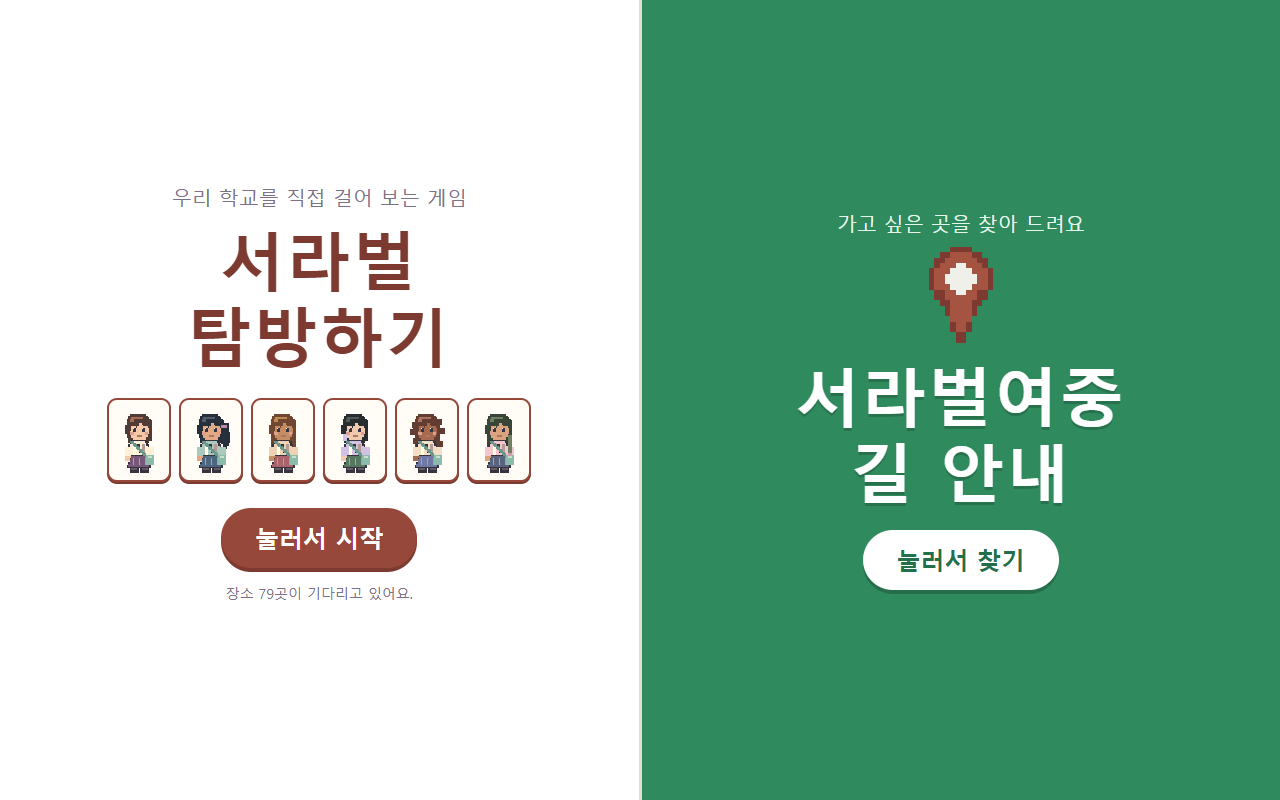
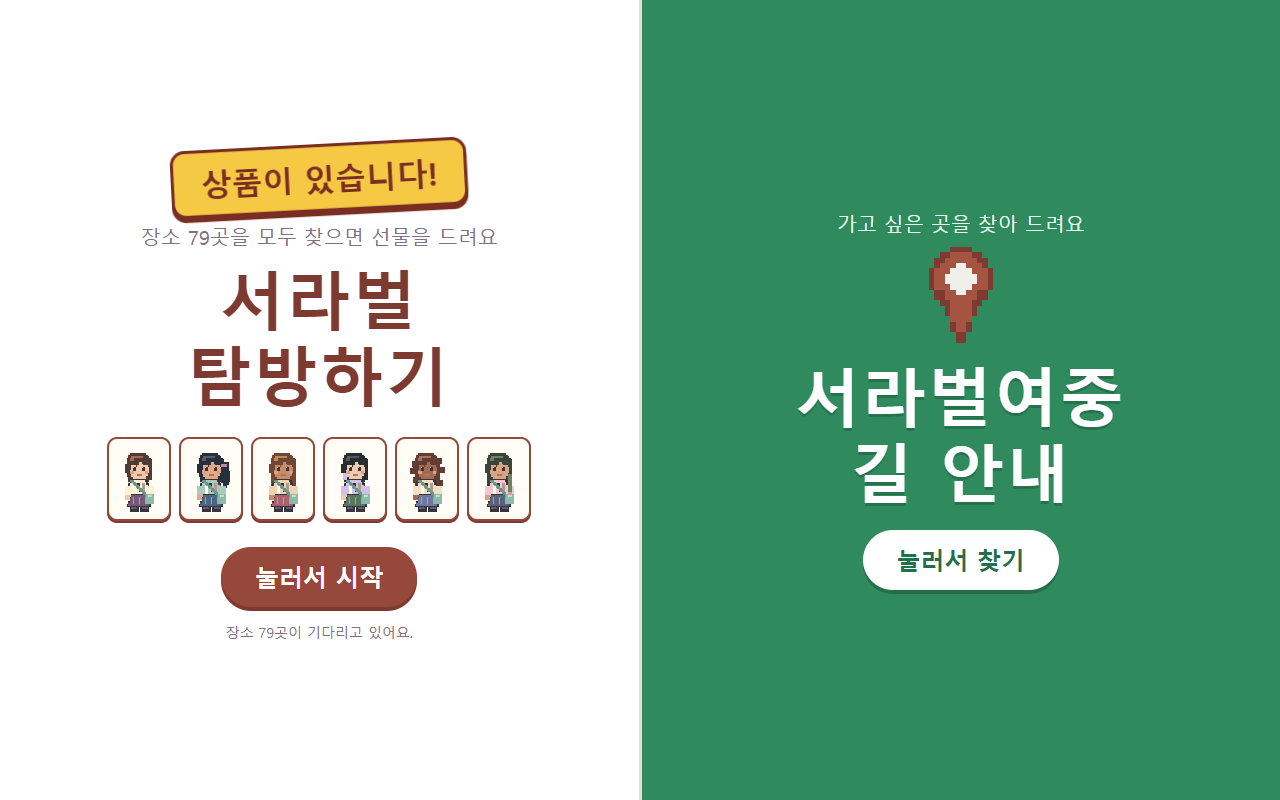
서라벌 탐방: 79곳 완료 시 학번·이름을 GitHub 비공개 저장소에 기록하고 2층 교무실 안내, 처음 화면에 상품 안내, 선생님 설정(?setup)

Changed region(s): [[0.0938, 0.1562, 0.4062, 0.8125]]

diff --git a/components/explore/js/prize.js b/components/explore/js/prize.js
@@ -1,0 +1,164 @@
+/* 서라벌 탐방 — 79곳 완료 상품: 학번·이름 받기 → GitHub 저장소에 기록 → "2층 교무실 선생님에게 찾아가세요".
+   GitHub 열쇠(토큰)는 공개 코드에 넣지 않습니다(공개 저장소에 올리면 GitHub가 바로 폐기함).
+   선생님이 사이니지 기기에서 ?setup 주소로 한 번 입력하면 그 기기 localStorage에만 저장됩니다.
+   보내기에 실패해도 기록은 기기에 남고, 다음에 자동으로 다시 보냅니다. */
+(function () {
+  'use strict';
+  var U = SRB.U;
+  var CFG = 'srb.explore.github', LOG = 'srb.explore.winners';
+  var P = {};
+
+  function get(k, d) { try { var v = JSON.parse(localStorage.getItem(k) || 'null'); return v == null ? d : v; } catch (e) { return d; } }
+  function put(k, v) { try { localStorage.setItem(k, JSON.stringify(v)); return true; } catch (e) { return false; } }
+  function pad(n, w) { n = String(n); while (n.length < (w || 2)) n = '0' + n; return n; }
+  function stamp(d) {
+    return d.getFullYear() + '-' + pad(d.getMonth() + 1) + '-' + pad(d.getDate()) + ' ' + pad(d.getHours()) + ':' + pad(d.getMinutes()) + ':' + pad(d.getSeconds());
+  }
+  function hash(s) { var h = 5381; for (var i = 0; i < s.length; i++) h = ((h * 33) ^ s.charCodeAt(i)) >>> 0; return 'h' + h.toString(36); }
+  function b64(str) { return btoa(unescape(encodeURIComponent(str))); }
+
+  P.config = function () { return get(CFG, { repo: '', token: '', branch: '', pin: '' }); };
+  P.ready = function () { var c = P.config(); return !!(c.repo && c.token); };
+  P.log = function () { return get(LOG, []); };
+
+  /* GitHub Contents API: one file per record, so nothing ever needs merging. XHR works on every browser. */
+  function request(method, url, token, body) {
+    return new Promise(function (ok, fail) {
+      var x = new XMLHttpRequest();
+      x.open(method, url);
+      x.setRequestHeader('Accept', 'application/vnd.github+json');
+      x.setRequestHeader('Authorization', 'Bearer ' + token);
+      if (body) x.setRequestHeader('Content-Type', 'application/json');
+      x.timeout = 15000;
+      x.onload = function () { if (x.status >= 200 && x.status < 300) ok(x.status); else fail(new Error('GitHub ' + x.status)); };
+      x.onerror = function () { fail(new Error('연결 안 됨')); };
+      x.ontimeout = function () { fail(new Error('시간 초과')); };
+      x.send(body ? JSON.stringify(body) : null);
+    });
+  }
+  function send(entry) {
+    var c = P.config();
+    if (!c.repo || !c.token) return Promise.reject(new Error('저장소 설정 없음'));
+    var r = entry.record, path = 'records/' + entry.day + '/' + entry.file;
+    var body = { message: '서라벌 탐방 완료 ' + r['학번'] + ' ' + r['이름'], content: b64(JSON.stringify(r, null, 2) + '\n') };
+    if (c.branch) body.branch = c.branch;
+    return request('PUT', 'https://api.github.com/repos/' + c.repo + '/contents/' + path.split('/').map(encodeURIComponent).join('/'), c.token, body);
+  }
+  function mark(id, sent, err) {
+    var log = P.log();
+    for (var i = 0; i < log.length; i++) if (log[i].id === id) { log[i].sent = sent; log[i].error = err || ''; }
+    put(LOG, log);
+  }
+  /* save locally first, then try GitHub; resolves {sent, error} (never rejects) */
+  P.submit = function (num, name, places) {
+    var d = new Date();
+    var record = { '학번': num, '이름': name, '완료 시각': stamp(d), '장소 수': places, '게임': '서라벌 탐방' };
+    var entry = {
+      id: d.getTime() + '-' + num, record: record, sent: false, error: '',
+      day: stamp(d).slice(0, 10), file: stamp(d).slice(11).replace(/:/g, '') + '-' + num.replace(/[^0-9A-Za-z]/g, '') + '.json'
+    };
+    var log = P.log(); log.push(entry); put(LOG, log);
+    return send(entry).then(function () { mark(entry.id, true); return { sent: true }; },
+      function (e) { mark(entry.id, false, e.message); return { sent: false, error: e.message }; });
+  };
+  P.flush = function () {
+    if (!P.ready()) return Promise.resolve(0);
+    var pending = P.log().filter(function (e) { return !e.sent; }), n = 0;
+    return pending.reduce(function (pr, e) {
+      return pr.then(function () { return send(e).then(function () { mark(e.id, true); n++; }, function (x) { mark(e.id, false, x.message); }); });
+    }, Promise.resolve()).then(function () { return n; });
+  };
+
+  /* ---------- 학생: 학번·이름 ---------- */
+  P.form = function (places, done) {
+    var w = U.el('div', { 'class': 'prize-form' });
+    w.appendChild(U.el('p', { 'class': 'prize-big' }, '장소 ' + places + '곳을 모두 탐방했어요! 축하해요!'));
+    w.appendChild(U.el('p', null, '상품을 받을 수 있도록 학번과 이름을 적어 주세요.'));
+    var num = U.el('input', { type: 'text', inputmode: 'numeric', maxlength: '8', autocomplete: 'off', placeholder: '학번 (예: 10203)', 'aria-label': '학번' });
+    var name = U.el('input', { type: 'text', maxlength: '20', autocomplete: 'off', placeholder: '이름', 'aria-label': '이름' });
+    var msg = U.el('p', { 'class': 'prize-msg' });
+    w.appendChild(U.el('label', null, '학번')); w.appendChild(num);
+    w.appendChild(U.el('label', null, '이름')); w.appendChild(name);
+    w.appendChild(msg);
+    var busy = false;
+    U.modal('서라벌 탐방 완료!', w, [{ label: '저장하기', primary: true, keep: true, fn: function () {
+      if (busy) return;
+      var n = (num.value || '').replace(/\s+/g, ''), m = (name.value || '').replace(/^\s+|\s+$/g, '');
+      if (!/^[0-9]{3,8}$/.test(n)) { msg.textContent = '학번을 숫자로 적어 주세요.'; num.focus(); return; }
+      if (m.length < 2) { msg.textContent = '이름을 적어 주세요.'; name.focus(); return; }
+      busy = true; msg.textContent = '저장하는 중이에요…';
+      P.submit(n, m, places).then(function (res) { busy = false; U.closeModal(); P.finish(m, res, done); });
+    } }]);
+  };
+  P.finish = function (name, res, done) {
+    var w = U.el('div', { 'class': 'prize-form' });
+    w.appendChild(U.el('p', { 'class': 'prize-big' }, name + ' 학생, 저장했어요!'));
+    w.appendChild(U.el('p', { 'class': 'prize-go' }, '2층 교무실 선생님에게 찾아가세요.'));
+    if (!res.sent) w.appendChild(U.el('p', { 'class': 'muted' }, '(인터넷 연결이 안 돼서 기록은 이 기기에 보관했어요. 연결되면 자동으로 보내요.)'));
+    U.modal('상품 안내', w, [{ label: '확인', primary: true, fn: done }]);
+  };
+
+  /* ---------- 선생님: ?setup ---------- */
+  P.setup = function () {
+    var c = P.config();
+    if (c.pin) {
+      var w0 = U.el('div'), pin = U.el('input', { type: 'password', inputmode: 'numeric', maxlength: '12', placeholder: '선생님 PIN', 'aria-label': '선생님 PIN' });
+      var m0 = U.el('p', { 'class': 'prize-msg' });
+      w0.appendChild(pin); w0.appendChild(m0);
+      U.modal('선생님 설정', w0, [{ label: '열기', primary: true, keep: true, fn: function () {
+        if (hash(pin.value || '') === c.pin) { U.closeModal(); settings(); } else m0.textContent = 'PIN이 맞지 않아요.';
+      } }, { label: '닫기' }]);
+    } else settings();
+  };
+  function settings() {
+    var c = P.config(), log = P.log();
+    var w = U.el('div', { 'class': 'prize-form' });
+    w.appendChild(U.el('p', null, '79곳을 모두 찾은 학생의 학번·이름을 기록할 GitHub 저장소입니다. 학생 이름이 들어가므로 반드시 비공개(Private) 저장소를 쓰세요.'));
+    var repo = U.el('input', { type: 'text', autocomplete: 'off', placeholder: '저장소 (예: pse915/srbschoolex-records)', 'aria-label': '저장소' }); repo.value = c.repo || '';
+    var token = U.el('input', { type: 'password', autocomplete: 'off', placeholder: c.token ? '열쇠 저장됨 — 바꿀 때만 입력' : 'GitHub 열쇠(토큰)', 'aria-label': 'GitHub 토큰' });
+    var branch = U.el('input', { type: 'text', autocomplete: 'off', placeholder: '브랜치 (비우면 기본 브랜치)', 'aria-label': '브랜치' }); branch.value = c.branch || '';
+    var pin = U.el('input', { type: 'password', inputmode: 'numeric', maxlength: '12', placeholder: c.pin ? 'PIN 저장됨 — 바꿀 때만 입력' : '선생님 PIN (선택, 이 화면 잠금)', 'aria-label': '선생님 PIN' });
+    var msg = U.el('p', { 'class': 'prize-msg' });
+    [['저장소', repo], ['열쇠', token], ['브랜치', branch], ['PIN', pin]].forEach(function (r) { w.appendChild(U.el('label', null, r[0])); w.appendChild(r[1]); });
+    var pending = log.filter(function (e) { return !e.sent; }).length;
+    w.appendChild(U.el('p', { 'class': 'muted' }, '이 기기의 완료 기록 ' + log.length + '건 (보내지 못한 기록 ' + pending + '건)'));
+    var list = U.el('ol', { 'class': 'prize-list' });
+    log.slice(-20).reverse().forEach(function (e) {
+      list.appendChild(U.el('li', null, e.record['완료 시각'] + ' · ' + e.record['학번'] + ' ' + e.record['이름'] + (e.sent ? '' : ' (보관 중: ' + (e.error || '미전송') + ')')));
+    });
+    w.appendChild(list); w.appendChild(msg);
+    function save() {
+      var n = P.config();
+      n.repo = (repo.value || '').replace(/^\s+|\s+$/g, '').replace(/^https?:\/\/github\.com\//, '').replace(/\/+$/, '');
+      n.branch = (branch.value || '').replace(/^\s+|\s+$/g, '');
+      if (token.value) n.token = token.value.replace(/\s+/g, '');
+      if (pin.value) n.pin = hash(pin.value);
+      put(CFG, n); token.value = ''; pin.value = '';
+      return n;
+    }
+    U.modal('선생님 설정', w, [
+      { label: '저장', primary: true, keep: true, fn: function () {
+        var n = save();
+        msg.textContent = /^[^\/\s]+\/[^\/\s]+$/.test(n.repo) && n.token ? '저장했어요. [연결 시험]으로 확인해 보세요.' : '저장소(이름/저장소)와 열쇠를 모두 넣어 주세요.';
+      } },
+      { label: '연결 시험', keep: true, fn: function () {
+        var n = save(); msg.textContent = '확인하는 중…';
+        if (!n.repo || !n.token) { msg.textContent = '저장소와 열쇠를 먼저 넣어 주세요.'; return; }
+        request('GET', 'https://api.github.com/repos/' + n.repo, n.token).then(function () {
+          msg.textContent = '연결됐어요. 이제 완료 기록이 이 저장소의 records/ 폴더에 쌓여요.';
+        }, function (e) { msg.textContent = '연결 실패: ' + e.message + ' (저장소 이름, 열쇠 권한 Contents: Read and write 를 확인하세요)'; });
+      } },
+      { label: '보관 기록 다시 보내기', keep: true, fn: function () {
+        msg.textContent = '보내는 중…';
+        P.flush().then(function (k) { msg.textContent = k + '건 보냈어요.'; });
+      } },
+      { label: '열쇠 지우기', keep: true, fn: function () { var n = P.config(); n.token = ''; put(CFG, n); msg.textContent = '이 기기에서 열쇠를 지웠어요.'; token.placeholder = 'GitHub 열쇠(토큰)'; } },
+      { label: '닫기' }
+    ]);
+  }
+
+  // 보관 중인 기록은 시작할 때와 5분마다 다시 보내 본다
+  setTimeout(function () { P.flush(); }, 4000);
+  setInterval(function () { P.flush(); }, 300000);
+  SRB.P = P;
+})();

diff --git a/components/explore/js/game.js b/components/explore/js/game.js
@@ -63,13 +63,17 @@
   }
   function titleNote() {
     var n = Object.keys(G.save.cards).length;
+    if (complete()) { U.$('titleNote').textContent = '장소를 모두 찾았어요! 눌러서 학번과 이름을 적어 주세요.'; return; }
     U.$('titleNote').textContent = n ? '지금까지 모은 장소 카드 ' + n + ' / ' + gamePlaces.length + '장' : '장소 ' + gamePlaces.length + '곳이 기다리고 있어요.';
   }
   G.start = function () {
     U.$('title').hidden = true; U.$('play').hidden = false; E.resize();
     E.avatar = G.save.avatar; G.save.plays += 1; U.save(G.save);
     var s = G.data.school.entrance;
-    E.loadMap('school', [s.x, s.y + 2]).then(function () { E.paused = false; U.toast('중앙현관 앞이에요. 학교 곳곳을 찾아가 보세요!'); });
+    E.loadMap('school', [s.x, s.y + 2]).then(function () {
+      E.paused = false;
+      if (complete()) prize(); else U.toast('중앙현관 앞이에요. 학교 곳곳을 찾아가 보세요!');
+    });
   };
   G.toTitle = function () {
     stopMission(); E.paused = true; U.$('play').hidden = true; U.$('title').hidden = false; titleNote(); markAvatar();
@@ -117,6 +121,7 @@
     var fresh = p.game && !G.save.cards[id];
     if (fresh) { G.save.cards[id] = Date.now(); U.save(G.save); updateCount(); }
     var hit = missionHit(id);
+    if (fresh && complete()) { prize(); return; }         // 마지막 장소: 학번·이름 받기
     if (fresh) showCard(p, hit);
     else if (hit) U.toast('찾았다! ' + p.label);
     else if (!E.map.place || E.map.place === id) U.toast(p.label);
@@ -140,6 +145,13 @@
     wrap.appendChild(t);
     U.modal('새 장소 카드 · ' + p.label, wrap, [{ label: '계속 탐방', primary: true }, { label: '도감 보기', fn: book }]);
   }
+  function complete() { return gamePlaces.length > 0 && Object.keys(G.save.cards).length >= gamePlaces.length; }
+  // 모두 찾으면: 학번·이름 → GitHub 기록 → "2층 교무실 선생님에게 찾아가세요" → 카드를 비우고 처음 화면(다음 학생 차례)
+  function prize() {
+    stopMission();
+    SRB.P.form(gamePlaces.length, function () { G.save.cards = {}; U.save(G.save); updateCount(); G.toTitle(); });
+  }
+  G.complete = complete;
   function updateCount() { U.$('bookCount').textContent = Object.keys(G.save.cards).length + '/' + gamePlaces.length; }
   function book() {
     var wrap = U.el('div');

diff --git a/components/explore/style.css b/components/explore/style.css
@@ -60,6 +60,15 @@ canvas{image-rendering:pixelated;image-rendering:crisp-edges}
 .go-guide{background:#fff;color:#22704b;box-shadow:0 4px 0 rgba(0,0,0,.2)}
 .half:active .go{-webkit-transform:translateY(3px);transform:translateY(3px);box-shadow:none}
 .half-play .note{margin-top:16px}
+.prize-badge{display:inline-block;margin:0 0 12px;padding:10px 26px;background:#f6c945;color:#7a2e22;font-size:30px;font-weight:900;border-radius:14px;border:3px solid #7a2e22;box-shadow:0 4px 0 #7a2e22;-webkit-transform:rotate(-3deg);transform:rotate(-3deg);-webkit-animation:prizePulse 1.6s ease-in-out infinite;animation:prizePulse 1.6s ease-in-out infinite}
+@-webkit-keyframes prizePulse{0%,100%{-webkit-transform:rotate(-3deg) scale(1)}50%{-webkit-transform:rotate(-3deg) scale(1.06)}}
+@keyframes prizePulse{0%,100%{transform:rotate(-3deg) scale(1)}50%{transform:rotate(-3deg) scale(1.06)}}
+.prize-form label{display:block;font-weight:700;margin:10px 0 4px}
+.prize-form input{display:block;width:100%;box-sizing:border-box;font-size:22px;padding:10px 12px;border:2px solid var(--line);border-radius:10px;background:#fff}
+.prize-big{font-size:22px;font-weight:800;color:var(--brick-d);margin:0 0 6px}
+.prize-go{font-size:30px;font-weight:900;color:#1f7a50;margin:14px 0;line-height:1.3}
+.prize-msg{color:#b03a2e;font-weight:700;min-height:1.2em}
+.prize-list{max-height:180px;overflow:auto;font-size:14px;padding-left:22px}
 .avatars{display:-webkit-box;display:-webkit-flex;display:flex;-webkit-justify-content:center;justify-content:center;-webkit-flex-wrap:wrap;flex-wrap:wrap;margin:0 0 22px}
 .avatars button{width:64px;height:84px;padding:4px;margin:4px;background:var(--paper);text-align:center}
 .avatars canvas{width:48px;height:72px;display:block;margin:0 auto}

diff --git a/components/explore/index.html b/components/explore/index.html
@@ -38,7 +38,8 @@
     <!-- 왼쪽 절반: 게임 -->
     <div id="btnStart" class="half half-play" role="button" tabindex="0" aria-label="서라벌 탐방하기">
       <div class="half-in">
-        <small>우리 학교를 직접 걸어 보는 게임</small>
+        <div class="prize-badge">상품이 있습니다!</div>
+        <small>장소 79곳을 모두 찾으면 선물을 드려요</small>
         <h1>서라벌<br>탐방하기</h1>
         <div id="avatars" class="avatars" role="radiogroup" aria-label="캐릭터 고르기"></div>
         <span class="go go-play">눌러서 시작</span>
@@ -88,6 +89,7 @@
   </div>
 </main>
 <script src="js/util.js"></script>
+<script src="js/prize.js"></script>
 <script src="js/engine.js"></script>
 <script src="js/mapview.js"></script>
 <script src="js/game.js"></script>

diff --git a/components/explore/js/util.js b/components/explore/js/util.js
@@ -88,6 +88,10 @@ window.SRB = SRB;
       if (start && t && (Math.abs(t.clientX - start.x) > 14 || Math.abs(t.clientY - start.y) > 14)) start = null;
     }, true);
     document.addEventListener('touchend', function (e) {
+      var tg = e.target;                                   // text boxes (학번·이름, search): focus so the on-screen keyboard opens
+      if (tg && (tg.tagName === 'TEXTAREA' || (tg.tagName === 'INPUT' && !/^(checkbox|radio|button)$/.test(tg.type))) && document.activeElement !== tg) {
+        try { tg.focus(); } catch (x) {}
+      }
       var s = start; start = null;
       if (!s || !s.el || Date.now() - s.at > 900 || s.el.disabled) return;
       var t = e.changedTouches[0], el = clickable(document.elementFromPoint(t.clientX, t.clientY) || e.target);

diff --git a/components/explore/js/main.js b/components/explore/js/main.js
@@ -30,6 +30,7 @@
     SRB.G.init(data);
     booted = true;
     if (mapOnly) openMapOnly();
+    if (/[?&]setup\b/.test(location.search)) SRB.P.setup();      // 선생님: GitHub 기록 설정
     window.__explore = { data: data, E: SRB.E, MV: SRB.MV, G: SRB.G };
   }).catch(function (err) {
     U.$('titleNote').textContent = '불러오지 못했어요: ' + err.message;

diff --git a/docs/PRIZE-SETUP.md b/docs/PRIZE-SETUP.md
@@ -1,0 +1,44 @@
+# 79곳 완료 상품 — 학번·이름을 GitHub에 기록하기 (선생님용)
+
+학생이 장소 79곳을 모두 탐방하면 학번·이름을 적는 창이 뜹니다.
+저장하면 GitHub 저장소에 기록되고, 화면에 **"2층 교무실 선생님에게 찾아가세요."** 가 나옵니다.
+그다음 기기의 장소 카드는 0으로 돌아가 다음 학생이 처음부터 시작합니다(카드는 그 전까지 기기에 계속 쌓입니다).
+
+## 1. 기록용 비공개 저장소 만들기 (처음 한 번)
+1. GitHub에서 **New repository**를 누릅니다.
+2. 이름은 예를 들어 `srbschoolex-records`로 하고, 반드시 **Private**를 고릅니다.
+   - 학생 이름이 들어가므로 게임 저장소(`srbschoolex`, 공개)에 기록하면 안 됩니다.
+3. **Add a README file**을 체크하고 만듭니다. 빈 저장소에는 기록을 쓸 수 없습니다.
+
+## 2. 열쇠(토큰) 만들기
+1. GitHub 오른쪽 위 프로필 → **Settings** → **Developer settings** → **Personal access tokens** → **Fine-grained tokens** → **Generate new token**을 엽니다.
+2. 아래처럼 고릅니다.
+   - **Repository access:** Only select repositories → `srbschoolex-records` **하나만**
+   - **Permissions → Repository permissions → Contents:** Read and write (다른 권한은 주지 않음)
+   - **Expiration:** 학기 끝 정도로 짧게
+3. 만들어진 열쇠(`github_pat_…`)를 복사합니다. 이 화면을 닫으면 다시 볼 수 없습니다.
+
+> 열쇠를 게임 코드(공개 저장소)에 넣지 마세요. GitHub가 공개된 열쇠를 찾아내 바로 폐기합니다.
+> 열쇠는 아래처럼 **사이니지 기기에서만** 입력합니다.
+
+## 3. 사이니지(플립2)에 입력하기
+1. 플립2 브라우저 주소창에 `https://pse915.github.io/srbschoolex/?setup` 을 엽니다.
+2. **선생님 설정** 창에 넣습니다.
+   - 저장소: `pse915/srbschoolex-records`
+   - 열쇠: 복사한 토큰
+   - PIN(선택): 숫자를 넣으면 다음부터 이 설정 화면을 열 때 PIN을 물어봅니다.
+3. **저장** → **연결 시험**을 누릅니다. "연결됐어요"가 나오면 끝입니다.
+4. 주소를 `https://pse915.github.io/srbschoolex/` 로 되돌려 둡니다.
+
+열쇠는 그 기기의 브라우저 저장소(localStorage)에만 남고, 화면에 다시 보이지 않습니다.
+브라우저 기록·사이트 데이터를 지우면 열쇠도 지워지니 3번을 다시 하면 됩니다.
+
+## 4. 기록 보기
+- 저장소의 `records/날짜/시각-학번.json` 파일 하나가 학생 한 명입니다(학번, 이름, 완료 시각, 장소 수).
+- 인터넷이 끊겼을 때도 학생에게는 안내가 나오고, 기록은 기기에 보관했다가 연결되면 자동으로 보냅니다(시작 후 4초, 그 뒤 5분마다).
+- `?setup` 화면에서 이 기기의 최근 완료 기록 20건과 보내지 못한 기록 수를 볼 수 있고, **보관 기록 다시 보내기**로 바로 보낼 수 있습니다.
+
+## 5. 알아 둘 점
+- 열쇠는 그 기기 안에만 있지만, 기기를 직접 만질 수 있는 사람이 브라우저 개발 도구를 열면 꺼낼 수 있습니다. 그래서 열쇠는 기록 저장소 하나, Contents 권한 하나만 주고 기간을 짧게 잡으세요.
+- 열쇠가 새었다고 생각되면 GitHub 토큰 화면에서 그 토큰을 **Delete**하고 새로 만들어 3번을 다시 하면 됩니다.
+- 카드는 기기에 계속 쌓이므로, 앞 학생이 모은 카드를 다음 학생이 이어서 채울 수 있습니다. 상품을 줄 때 확인해 주세요.

diff --git a/docs/EXPLORE-REPORT.md b/docs/EXPLORE-REPORT.md
@@ -47,6 +47,7 @@
   - 방송실: 어두운 바닥, ON AIR 등이 달린 부스 창, 부스 문, 모니터가 놓인 방송 책상, 장비 랙, 벽 패널, 연두색 의자.
   - 생성은 `tools/build_explore_data.py`가 함께 합니다(그림 `assets/interior-tiles.png`, `interior-props.png`). 스크린샷 `docs/screenshots-explore/20~24`, 확인 스크립트 `tests/interior_screens.cjs`.
 - **터치:** 오래된 내장 브라우저(Pointer Events 없음)에서도 터치가 되도록 모든 입력을 `U.press`(Pointer Events → 없으면 터치·마우스)로 받습니다. 방향 패드·창 배치는 CSS Grid 대신 절대 위치·flex, 색은 8자리 HEX 대신 rgba를 씁니다. 또 사이니지 브라우저는 터치를 클릭으로 바꿔 주지 않아서, 버튼(지도 탭·지도/도감/메뉴·창 버튼·체크박스)은 짧은 터치를 클릭으로 바꾸는 처리(`util.js`의 tapToClick)를 거칩니다. 확인: `tests/touch_check.cjs`(포인터 이벤트 없음 + 터치가 클릭이 되지 않는 브라우저 흉내).
+- **79곳 완료 상품:** 처음 화면에 "상품이 있습니다!"를 표시합니다. 마지막 장소를 찾으면 학번·이름 입력 → GitHub 비공개 저장소에 기록(`js/prize.js`) → "2층 교무실 선생님에게 찾아가세요." 안내 → 카드를 비우고 처음 화면으로 갑니다. 설정은 `docs/PRIZE-SETUP.md`, 확인 `tests/prize_check.cjs`(스크린샷 `29~32`).
 - **저장:** 이 기기 localStorage에만 익명으로 저장합니다(도감, 최고 기록, 캐릭터). 메뉴에서 지울 수 있습니다.
 
 ## 4. 학교 전체 지도
